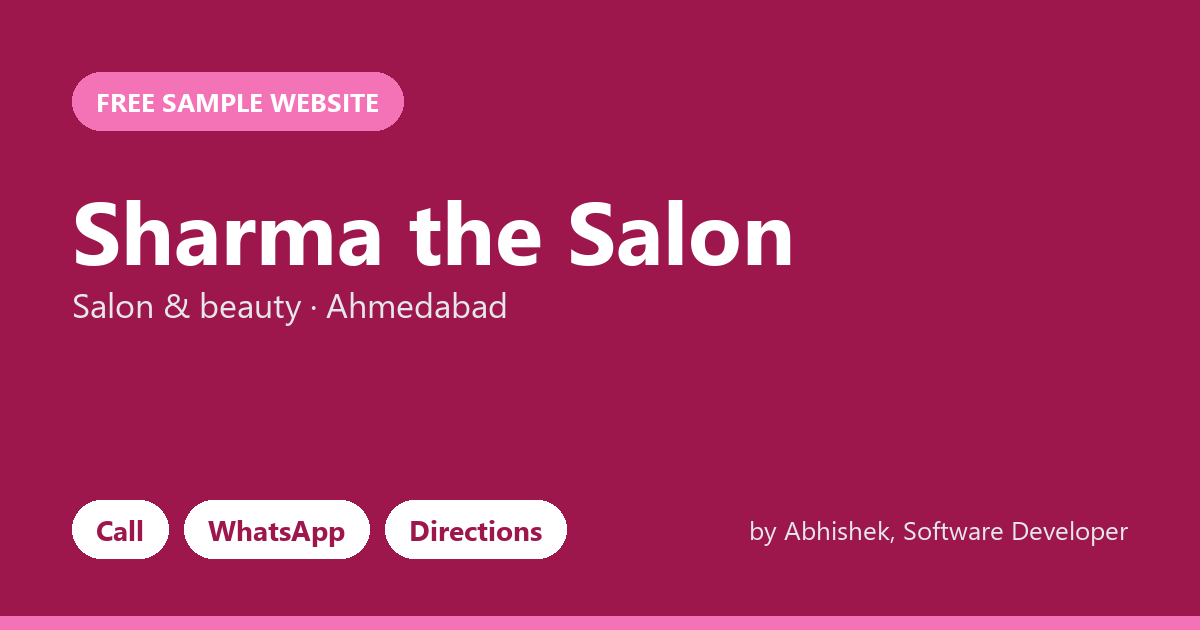
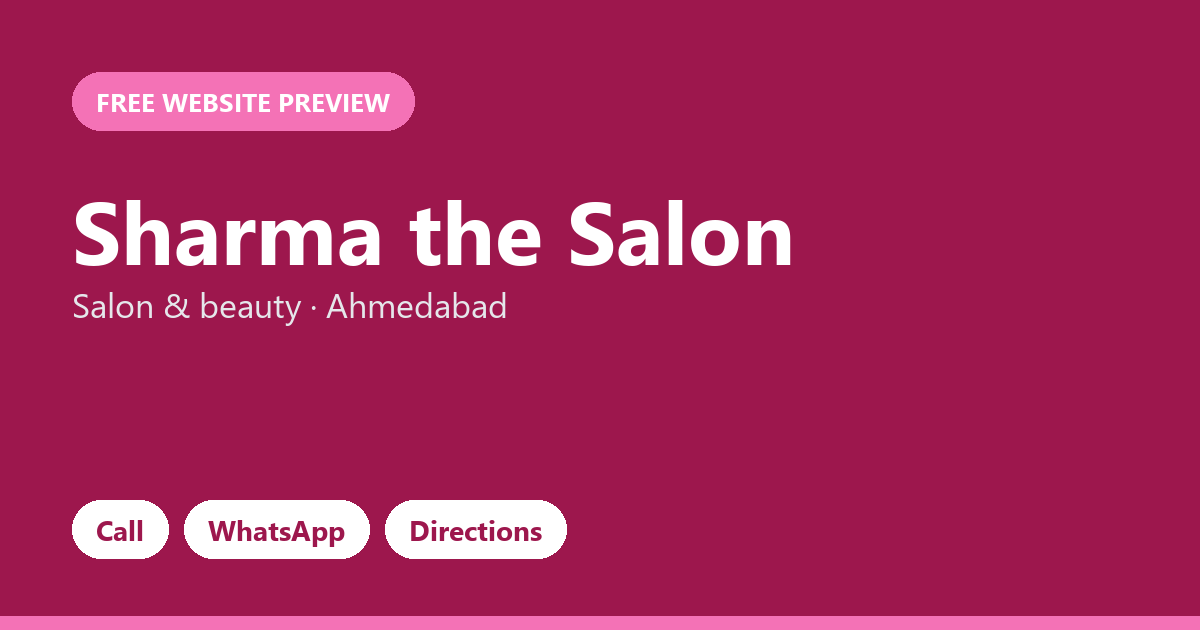
Previews: drop price and personal name (116-120 of 139)

Changed region(s): [[0.6167, 0.8143, 0.925, 0.8746], [0.1233, 0.1206, 0.37, 0.2111]]

diff --git a/p/silver-leaf-psc-academy-kozhikode-2231/index.html b/p/silver-leaf-psc-academy-kozhikode-2231/index.html
@@ -6,8 +6,8 @@
 <title>Silver Leaf PSC Academy | Coaching &amp; tuition in Kozhikode</title>
 <meta name="description" content="Concept-first teaching, small batches and regular tests that build real results.">
 <meta property="og:type" content="website">
-<meta property="og:title" content="Silver Leaf PSC Academy · Free sample website">
-<meta property="og:description" content="Made by Abhishek, Software Developer. Call, WhatsApp and directions in one tap.">
+<meta property="og:title" content="Silver Leaf PSC Academy · Free website preview">
+<meta property="og:description" content="Call, WhatsApp and directions in one tap.">
 <meta property="og:url" content="https://roguestar03.github.io/p/silver-leaf-psc-academy-kozhikode-2231/">
 <meta property="og:image" content="https://roguestar03.github.io/p/silver-leaf-psc-academy-kozhikode-2231/og.png">
 <meta property="og:image:width" content="1200">
@@ -167,7 +167,7 @@ footer{padding:40px 0 110px;border-top:1px solid var(--line);font-size:14px;colo
 </style>
 </head>
 <body>
-<div class="pv">Sample website made for <b>Silver Leaf PSC Academy</b> by <b>Abhishek</b>. Not the official website yet. <b>Like it?</b> Make it yours for ₹1,999. Contact: <a href="mailto:abhishekkayasth87@gmail.com">abhishekkayasth87@gmail.com</a> · <a href="https://www.linkedin.com/in/abhishek-kayasth-050250239/" target="_blank" rel="noopener">LinkedIn</a></div>
+<div class="pv">Free website preview for <b>Silver Leaf PSC Academy</b>. Not the official website yet. <b>Like it?</b> Just reply to our message. Contact: <a href="mailto:abhishekkayasth87@gmail.com">abhishekkayasth87@gmail.com</a> · <a href="https://www.linkedin.com/in/abhishek-kayasth-050250239/" target="_blank" rel="noopener">LinkedIn</a></div>
 <header>
   <div class="wrap nav">
     <a href="#top" class="logo"><span class="mark">SL</span><span class="t">Silver Leaf PSC Academy</span></a>
@@ -259,7 +259,7 @@ footer{padding:40px 0 110px;border-top:1px solid var(--line);font-size:14px;colo
       <div><b style="color:var(--ink)">Silver Leaf PSC Academy</b><br>Second floor, Silver Plaza, Mavoor Rd, Kozhikode<p class="soc"><a href="https://www.facebook.com/106981861790165" target="_blank" rel="noopener">Facebook</a></p></div>
       <div>+91 82819 92231<br>&copy; 2026 Silver Leaf PSC Academy</div>
     </div>
-    <p class="credit">Sample website by Abhishek, Software Developer · <a href="mailto:abhishekkayasth87@gmail.com">abhishekkayasth87@gmail.com</a> · <a href="https://www.linkedin.com/in/abhishek-kayasth-050250239/" target="_blank" rel="noopener">LinkedIn</a></p>
+    <p class="credit">Website preview · <a href="mailto:abhishekkayasth87@gmail.com">abhishekkayasth87@gmail.com</a> · <a href="https://www.linkedin.com/in/abhishek-kayasth-050250239/" target="_blank" rel="noopener">LinkedIn</a></p>
   </div>
 </footer>
 

diff --git a/p/shubham-medicare-clinic-varanasi-3121/index.html b/p/shubham-medicare-clinic-varanasi-3121/index.html
@@ -6,8 +6,8 @@
 <title>Shubham Medicare Clinic | Clinic in Varanasi</title>
 <meta name="description" content="Trusted healthcare close to home. Consult, get treated and follow up with ease.">
 <meta property="og:type" content="website">
-<meta property="og:title" content="Shubham Medicare Clinic · Free sample website">
-<meta property="og:description" content="Made by Abhishek, Software Developer. Call, WhatsApp and directions in one tap.">
+<meta property="og:title" content="Shubham Medicare Clinic · Free website preview">
+<meta property="og:description" content="Call, WhatsApp and directions in one tap.">
 <meta property="og:url" content="https://roguestar03.github.io/p/shubham-medicare-clinic-varanasi-3121/">
 <meta property="og:image" content="https://roguestar03.github.io/p/shubham-medicare-clinic-varanasi-3121/og.png">
 <meta property="og:image:width" content="1200">
@@ -167,7 +167,7 @@ footer{padding:40px 0 110px;border-top:1px solid var(--line);font-size:14px;colo
 </style>
 </head>
 <body>
-<div class="pv">Sample website made for <b>Shubham Medicare Clinic</b> by <b>Abhishek</b>. Not the official website yet. <b>Like it?</b> Make it yours for ₹1,999. Contact: <a href="mailto:abhishekkayasth87@gmail.com">abhishekkayasth87@gmail.com</a> · <a href="https://www.linkedin.com/in/abhishek-kayasth-050250239/" target="_blank" rel="noopener">LinkedIn</a></div>
+<div class="pv">Free website preview for <b>Shubham Medicare Clinic</b>. Not the official website yet. <b>Like it?</b> Just reply to our message. Contact: <a href="mailto:abhishekkayasth87@gmail.com">abhishekkayasth87@gmail.com</a> · <a href="https://www.linkedin.com/in/abhishek-kayasth-050250239/" target="_blank" rel="noopener">LinkedIn</a></div>
 <header>
   <div class="wrap nav">
     <a href="#top" class="logo"><span class="mark">SM</span><span class="t">Shubham Medicare Clinic</span></a>
@@ -259,7 +259,7 @@ footer{padding:40px 0 110px;border-top:1px solid var(--line);font-size:14px;colo
       <div><b style="color:var(--ink)">Shubham Medicare Clinic</b><br>Tulsi Nagar Road, Varanasi<p class="soc"><a href="https://www.facebook.com/1309433475760044" target="_blank" rel="noopener">Facebook</a></p></div>
       <div>+91 94152 63121<br>&copy; 2026 Shubham Medicare Clinic</div>
     </div>
-    <p class="credit">Sample website by Abhishek, Software Developer · <a href="mailto:abhishekkayasth87@gmail.com">abhishekkayasth87@gmail.com</a> · <a href="https://www.linkedin.com/in/abhishek-kayasth-050250239/" target="_blank" rel="noopener">LinkedIn</a></p>
+    <p class="credit">Website preview · <a href="mailto:abhishekkayasth87@gmail.com">abhishekkayasth87@gmail.com</a> · <a href="https://www.linkedin.com/in/abhishek-kayasth-050250239/" target="_blank" rel="noopener">LinkedIn</a></p>
   </div>
 </footer>
 

diff --git a/p/shreepad-academy-nashik-8965/index.html b/p/shreepad-academy-nashik-8965/index.html
@@ -6,8 +6,8 @@
 <title>Shreepad Academy | Coaching &amp; tuition in Nashik</title>
 <meta name="description" content="Concept-first teaching, small batches and regular tests that build real results.">
 <meta property="og:type" content="website">
-<meta property="og:title" content="Shreepad Academy · Free sample website">
-<meta property="og:description" content="Made by Abhishek, Software Developer. Call, WhatsApp and directions in one tap.">
+<meta property="og:title" content="Shreepad Academy · Free website preview">
+<meta property="og:description" content="Call, WhatsApp and directions in one tap.">
 <meta property="og:url" content="https://roguestar03.github.io/p/shreepad-academy-nashik-8965/">
 <meta property="og:image" content="https://roguestar03.github.io/p/shreepad-academy-nashik-8965/og.png">
 <meta property="og:image:width" content="1200">
@@ -167,7 +167,7 @@ footer{padding:40px 0 110px;border-top:1px solid var(--line);font-size:14px;colo
 </style>
 </head>
 <body>
-<div class="pv">Sample website made for <b>Shreepad Academy</b> by <b>Abhishek</b>. Not the official website yet. <b>Like it?</b> Make it yours for ₹1,999. Contact: <a href="mailto:abhishekkayasth87@gmail.com">abhishekkayasth87@gmail.com</a> · <a href="https://www.linkedin.com/in/abhishek-kayasth-050250239/" target="_blank" rel="noopener">LinkedIn</a></div>
+<div class="pv">Free website preview for <b>Shreepad Academy</b>. Not the official website yet. <b>Like it?</b> Just reply to our message. Contact: <a href="mailto:abhishekkayasth87@gmail.com">abhishekkayasth87@gmail.com</a> · <a href="https://www.linkedin.com/in/abhishek-kayasth-050250239/" target="_blank" rel="noopener">LinkedIn</a></div>
 <header>
   <div class="wrap nav">
     <a href="#top" class="logo"><span class="mark">SA</span><span class="t">Shreepad Academy</span></a>
@@ -259,7 +259,7 @@ footer{padding:40px 0 110px;border-top:1px solid var(--line);font-size:14px;colo
       <div><b style="color:var(--ink)">Shreepad Academy</b><br>29, Shree Tirumala luxuria, Canal Road, opp. Ishwar Prestige, Nashik<p class="soc"><a href="https://www.facebook.com/103511708292352" target="_blank" rel="noopener">Facebook</a></p></div>
       <div>+91 97638 58965<br>&copy; 2026 Shreepad Academy</div>
     </div>
-    <p class="credit">Sample website by Abhishek, Software Developer · <a href="mailto:abhishekkayasth87@gmail.com">abhishekkayasth87@gmail.com</a> · <a href="https://www.linkedin.com/in/abhishek-kayasth-050250239/" target="_blank" rel="noopener">LinkedIn</a></p>
+    <p class="credit">Website preview · <a href="mailto:abhishekkayasth87@gmail.com">abhishekkayasth87@gmail.com</a> · <a href="https://www.linkedin.com/in/abhishek-kayasth-050250239/" target="_blank" rel="noopener">LinkedIn</a></p>
   </div>
 </footer>
 

diff --git a/p/shree-homeopathy-clinic-ajmer-9302/index.html b/p/shree-homeopathy-clinic-ajmer-9302/index.html
@@ -6,8 +6,8 @@
 <title>Shree Homeopathy Clinic | Clinic in Ajmer</title>
 <meta name="description" content="Trusted healthcare close to home. Consult, get treated and follow up with ease.">
 <meta property="og:type" content="website">
-<meta property="og:title" content="Shree Homeopathy Clinic · Free sample website">
-<meta property="og:description" content="Made by Abhishek, Software Developer. Call, WhatsApp and directions in one tap.">
+<meta property="og:title" content="Shree Homeopathy Clinic · Free website preview">
+<meta property="og:description" content="Call, WhatsApp and directions in one tap.">
 <meta property="og:url" content="https://roguestar03.github.io/p/shree-homeopathy-clinic-ajmer-9302/">
 <meta property="og:image" content="https://roguestar03.github.io/p/shree-homeopathy-clinic-ajmer-9302/og.png">
 <meta property="og:image:width" content="1200">
@@ -167,7 +167,7 @@ footer{padding:40px 0 110px;border-top:1px solid var(--line);font-size:14px;colo
 </style>
 </head>
 <body>
-<div class="pv">Sample website made for <b>Shree Homeopathy Clinic</b> by <b>Abhishek</b>. Not the official website yet. <b>Like it?</b> Make it yours for ₹1,999. Contact: <a href="mailto:abhishekkayasth87@gmail.com">abhishekkayasth87@gmail.com</a> · <a href="https://www.linkedin.com/in/abhishek-kayasth-050250239/" target="_blank" rel="noopener">LinkedIn</a></div>
+<div class="pv">Free website preview for <b>Shree Homeopathy Clinic</b>. Not the official website yet. <b>Like it?</b> Just reply to our message. Contact: <a href="mailto:abhishekkayasth87@gmail.com">abhishekkayasth87@gmail.com</a> · <a href="https://www.linkedin.com/in/abhishek-kayasth-050250239/" target="_blank" rel="noopener">LinkedIn</a></div>
 <header>
   <div class="wrap nav">
     <a href="#top" class="logo"><span class="mark">SH</span><span class="t">Shree Homeopathy Clinic</span></a>
@@ -259,7 +259,7 @@ footer{padding:40px 0 110px;border-top:1px solid var(--line);font-size:14px;colo
       <div><b style="color:var(--ink)">Shree Homeopathy Clinic</b><br>vaishali, Ajmer<p class="soc"><a href="https://www.facebook.com/110696917352892" target="_blank" rel="noopener">Facebook</a></p></div>
       <div>+91 89499 69302<br>&copy; 2026 Shree Homeopathy Clinic</div>
     </div>
-    <p class="credit">Sample website by Abhishek, Software Developer · <a href="mailto:abhishekkayasth87@gmail.com">abhishekkayasth87@gmail.com</a> · <a href="https://www.linkedin.com/in/abhishek-kayasth-050250239/" target="_blank" rel="noopener">LinkedIn</a></p>
+    <p class="credit">Website preview · <a href="mailto:abhishekkayasth87@gmail.com">abhishekkayasth87@gmail.com</a> · <a href="https://www.linkedin.com/in/abhishek-kayasth-050250239/" target="_blank" rel="noopener">LinkedIn</a></p>
   </div>
 </footer>
 

diff --git a/p/sharma-the-salon-ahmedabad-4020/index.html b/p/sharma-the-salon-ahmedabad-4020/index.html
@@ -6,8 +6,8 @@
 <title>Sharma the Salon | Salon &amp; beauty in Ahmedabad</title>
 <meta name="description" content="Look good, feel great. Expert hair, skin and beauty services in a relaxing space.">
 <meta property="og:type" content="website">
-<meta property="og:title" content="Sharma the Salon · Free sample website">
-<meta property="og:description" content="Made by Abhishek, Software Developer. Call, WhatsApp and directions in one tap.">
+<meta property="og:title" content="Sharma the Salon · Free website preview">
+<meta property="og:description" content="Call, WhatsApp and directions in one tap.">
 <meta property="og:url" content="https://roguestar03.github.io/p/sharma-the-salon-ahmedabad-4020/">
 <meta property="og:image" content="https://roguestar03.github.io/p/sharma-the-salon-ahmedabad-4020/og.png">
 <meta property="og:image:width" content="1200">
@@ -167,7 +167,7 @@ footer{padding:40px 0 110px;border-top:1px solid var(--line);font-size:14px;colo
 </style>
 </head>
 <body>
-<div class="pv">Sample website made for <b>Sharma the Salon</b> by <b>Abhishek</b>. Not the official website yet. <b>Like it?</b> Make it yours for ₹1,999. Contact: <a href="mailto:abhishekkayasth87@gmail.com">abhishekkayasth87@gmail.com</a> · <a href="https://www.linkedin.com/in/abhishek-kayasth-050250239/" target="_blank" rel="noopener">LinkedIn</a></div>
+<div class="pv">Free website preview for <b>Sharma the Salon</b>. Not the official website yet. <b>Like it?</b> Just reply to our message. Contact: <a href="mailto:abhishekkayasth87@gmail.com">abhishekkayasth87@gmail.com</a> · <a href="https://www.linkedin.com/in/abhishek-kayasth-050250239/" target="_blank" rel="noopener">LinkedIn</a></div>
 <header>
   <div class="wrap nav">
     <a href="#top" class="logo"><span class="mark">SS</span><span class="t">Sharma the Salon</span></a>
@@ -259,7 +259,7 @@ footer{padding:40px 0 110px;border-top:1px solid var(--line);font-size:14px;colo
       <div><b style="color:var(--ink)">Sharma the Salon</b><br>Shop No. 4&amp;5, Neelkanth Shopping Centre, Ahmedabad<p class="soc"><a href="https://www.facebook.com/1563623256993447" target="_blank" rel="noopener">Facebook</a></p></div>
       <div>+91 97256 04020<br>&copy; 2026 Sharma the Salon</div>
     </div>
-    <p class="credit">Sample website by Abhishek, Software Developer · <a href="mailto:abhishekkayasth87@gmail.com">abhishekkayasth87@gmail.com</a> · <a href="https://www.linkedin.com/in/abhishek-kayasth-050250239/" target="_blank" rel="noopener">LinkedIn</a></p>
+    <p class="credit">Website preview · <a href="mailto:abhishekkayasth87@gmail.com">abhishekkayasth87@gmail.com</a> · <a href="https://www.linkedin.com/in/abhishek-kayasth-050250239/" target="_blank" rel="noopener">LinkedIn</a></p>
   </div>
 </footer>
 
